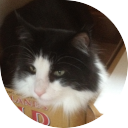
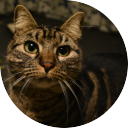
feat: use local images
remove cat 13, shuffle cats around

diff --git a/popup.css b/popup.css
@@ -183,9 +183,3 @@ input[type="radio"][value="cat-25"] {
             url('chrome-extension://__MSG_@@extension_id__/images/cat-25.png'),
             url('moz-extension://__MSG_@@extension_id__/images/cat-25.png');
 }
-
-input[type="radio"][value="cat-26"] {
-    background-image:
-            url('chrome-extension://__MSG_@@extension_id__/images/cat-26.png'),
-            url('moz-extension://__MSG_@@extension_id__/images/cat-26.png');
-}

diff --git a/popup.html b/popup.html
@@ -30,7 +30,6 @@
         <input type="radio" id="cat-23" name="cat-name" value="cat-23">
         <input type="radio" id="cat-24" name="cat-name" value="cat-24">
         <input type="radio" id="cat-25" name="cat-name" value="cat-25">
-        <input type="radio" id="cat-26" name="cat-name" value="cat-26">
     </form>
 
     <script src="popup.js"></script>